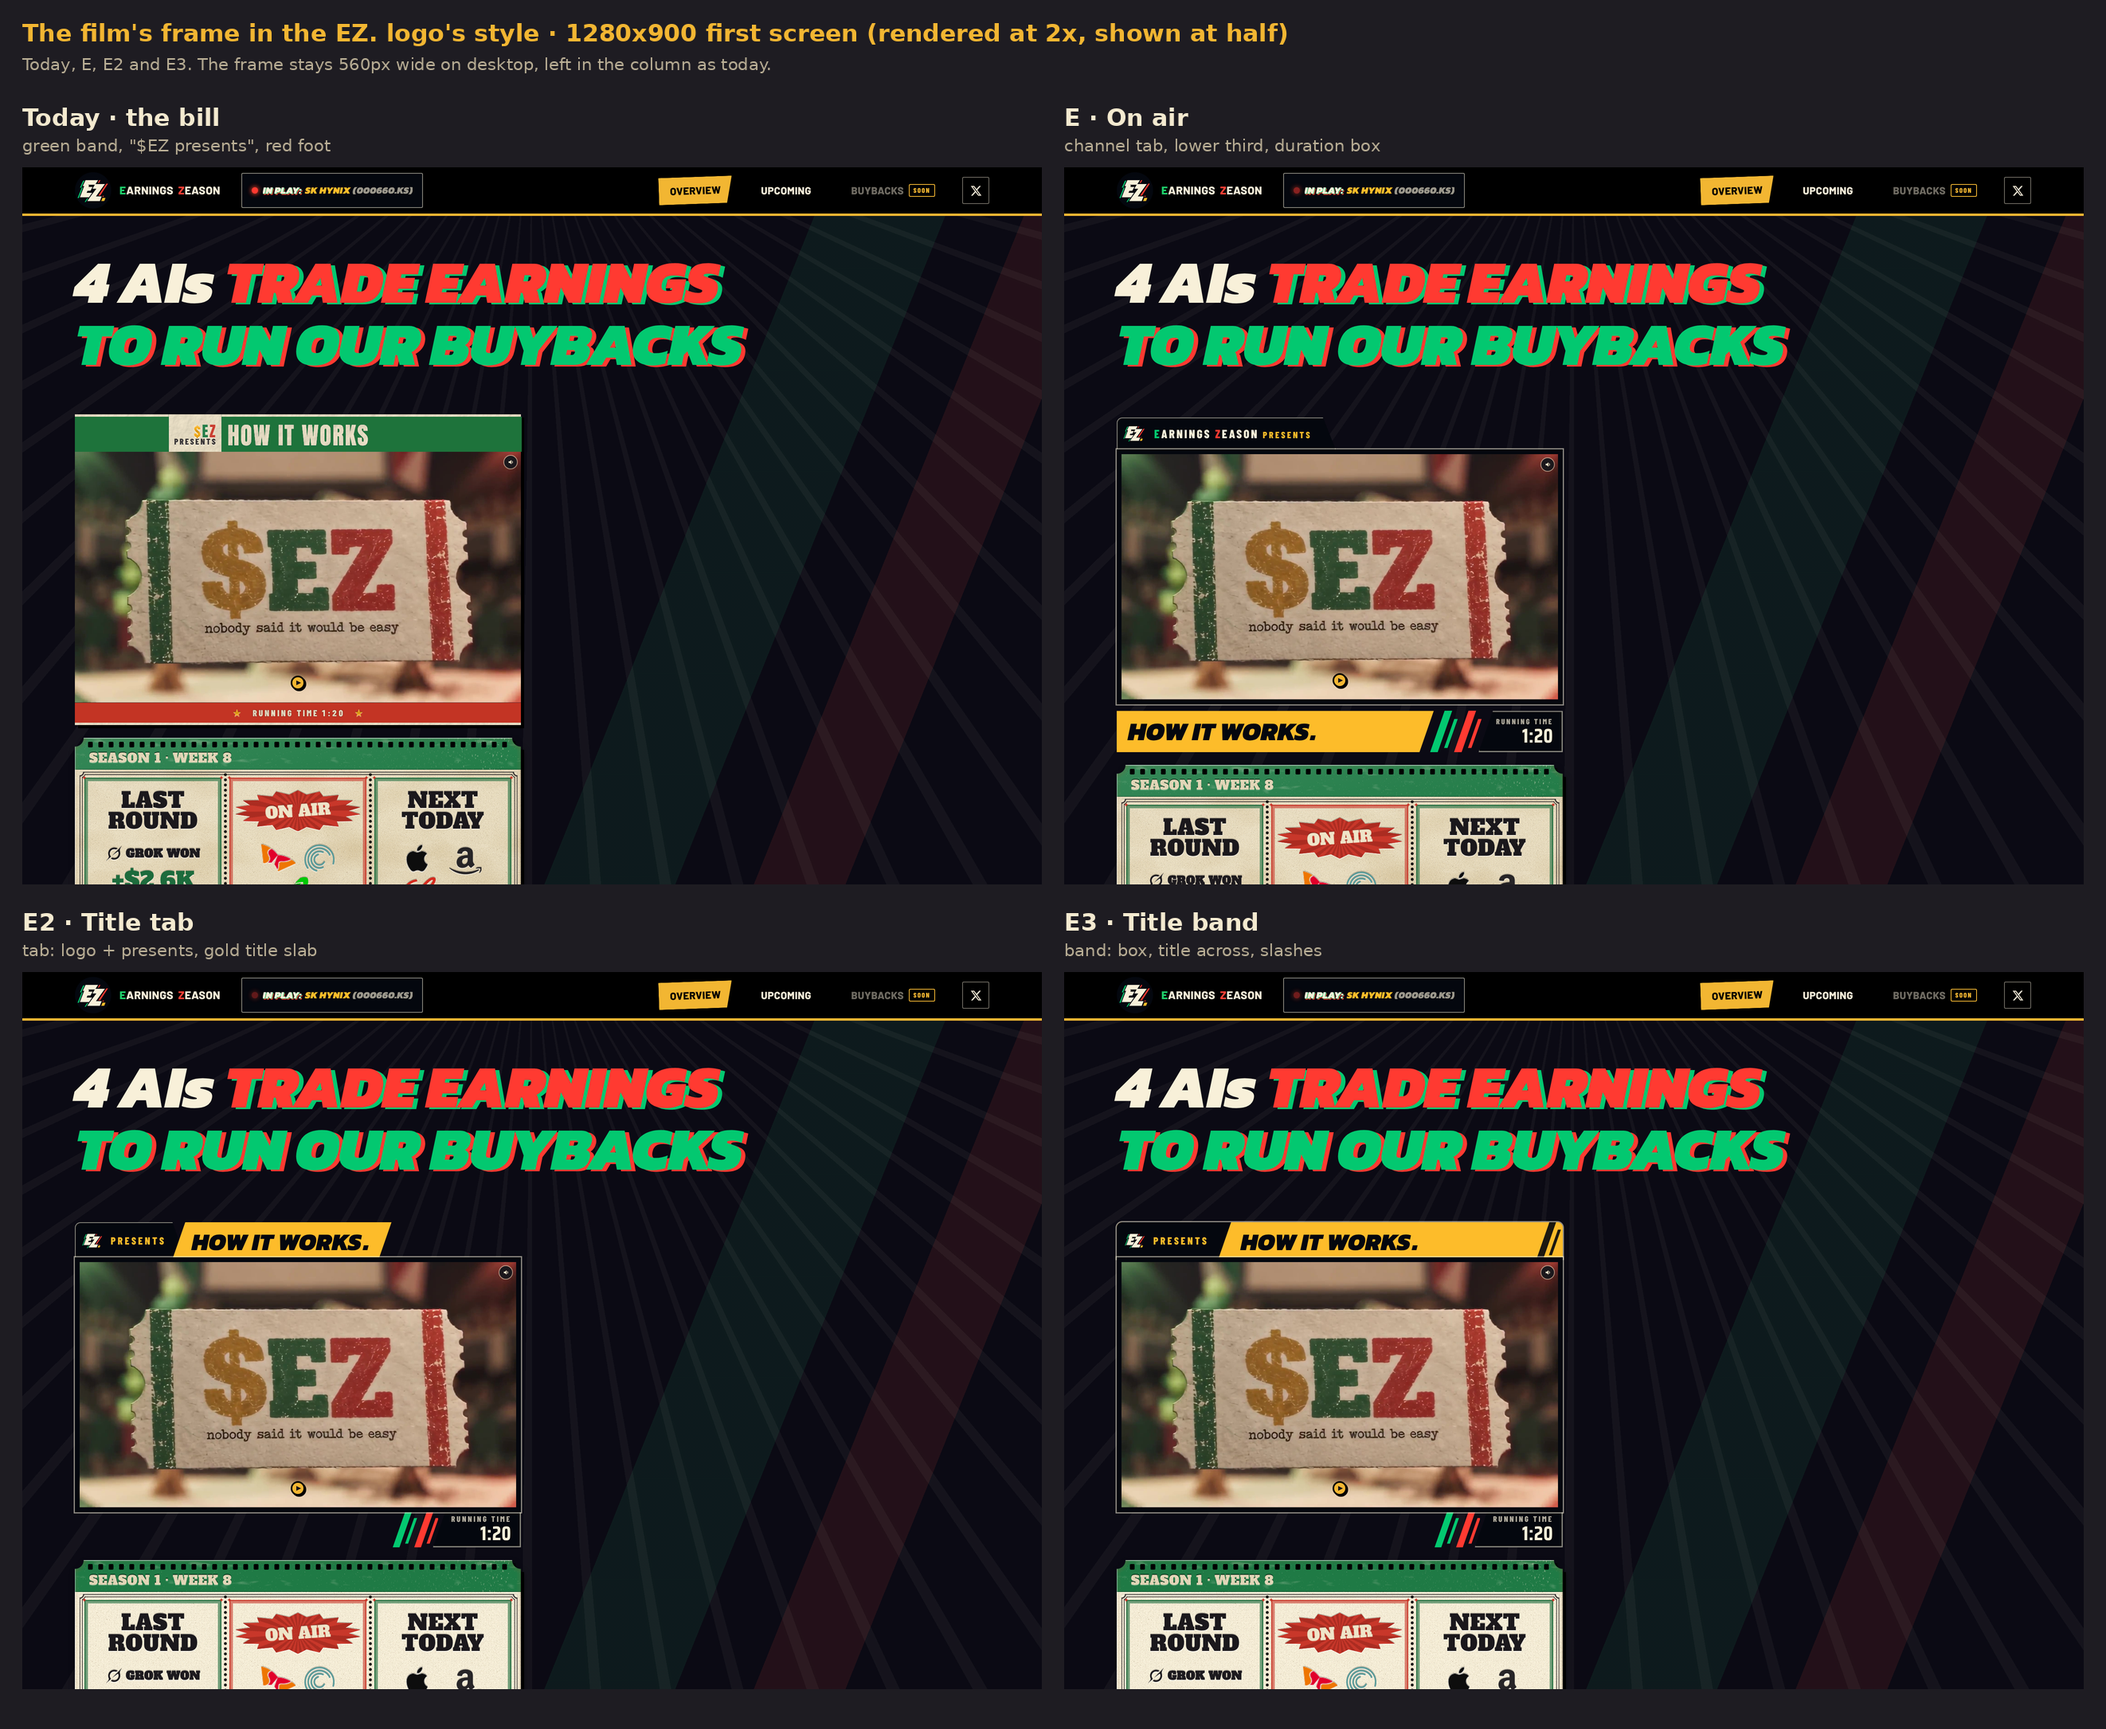
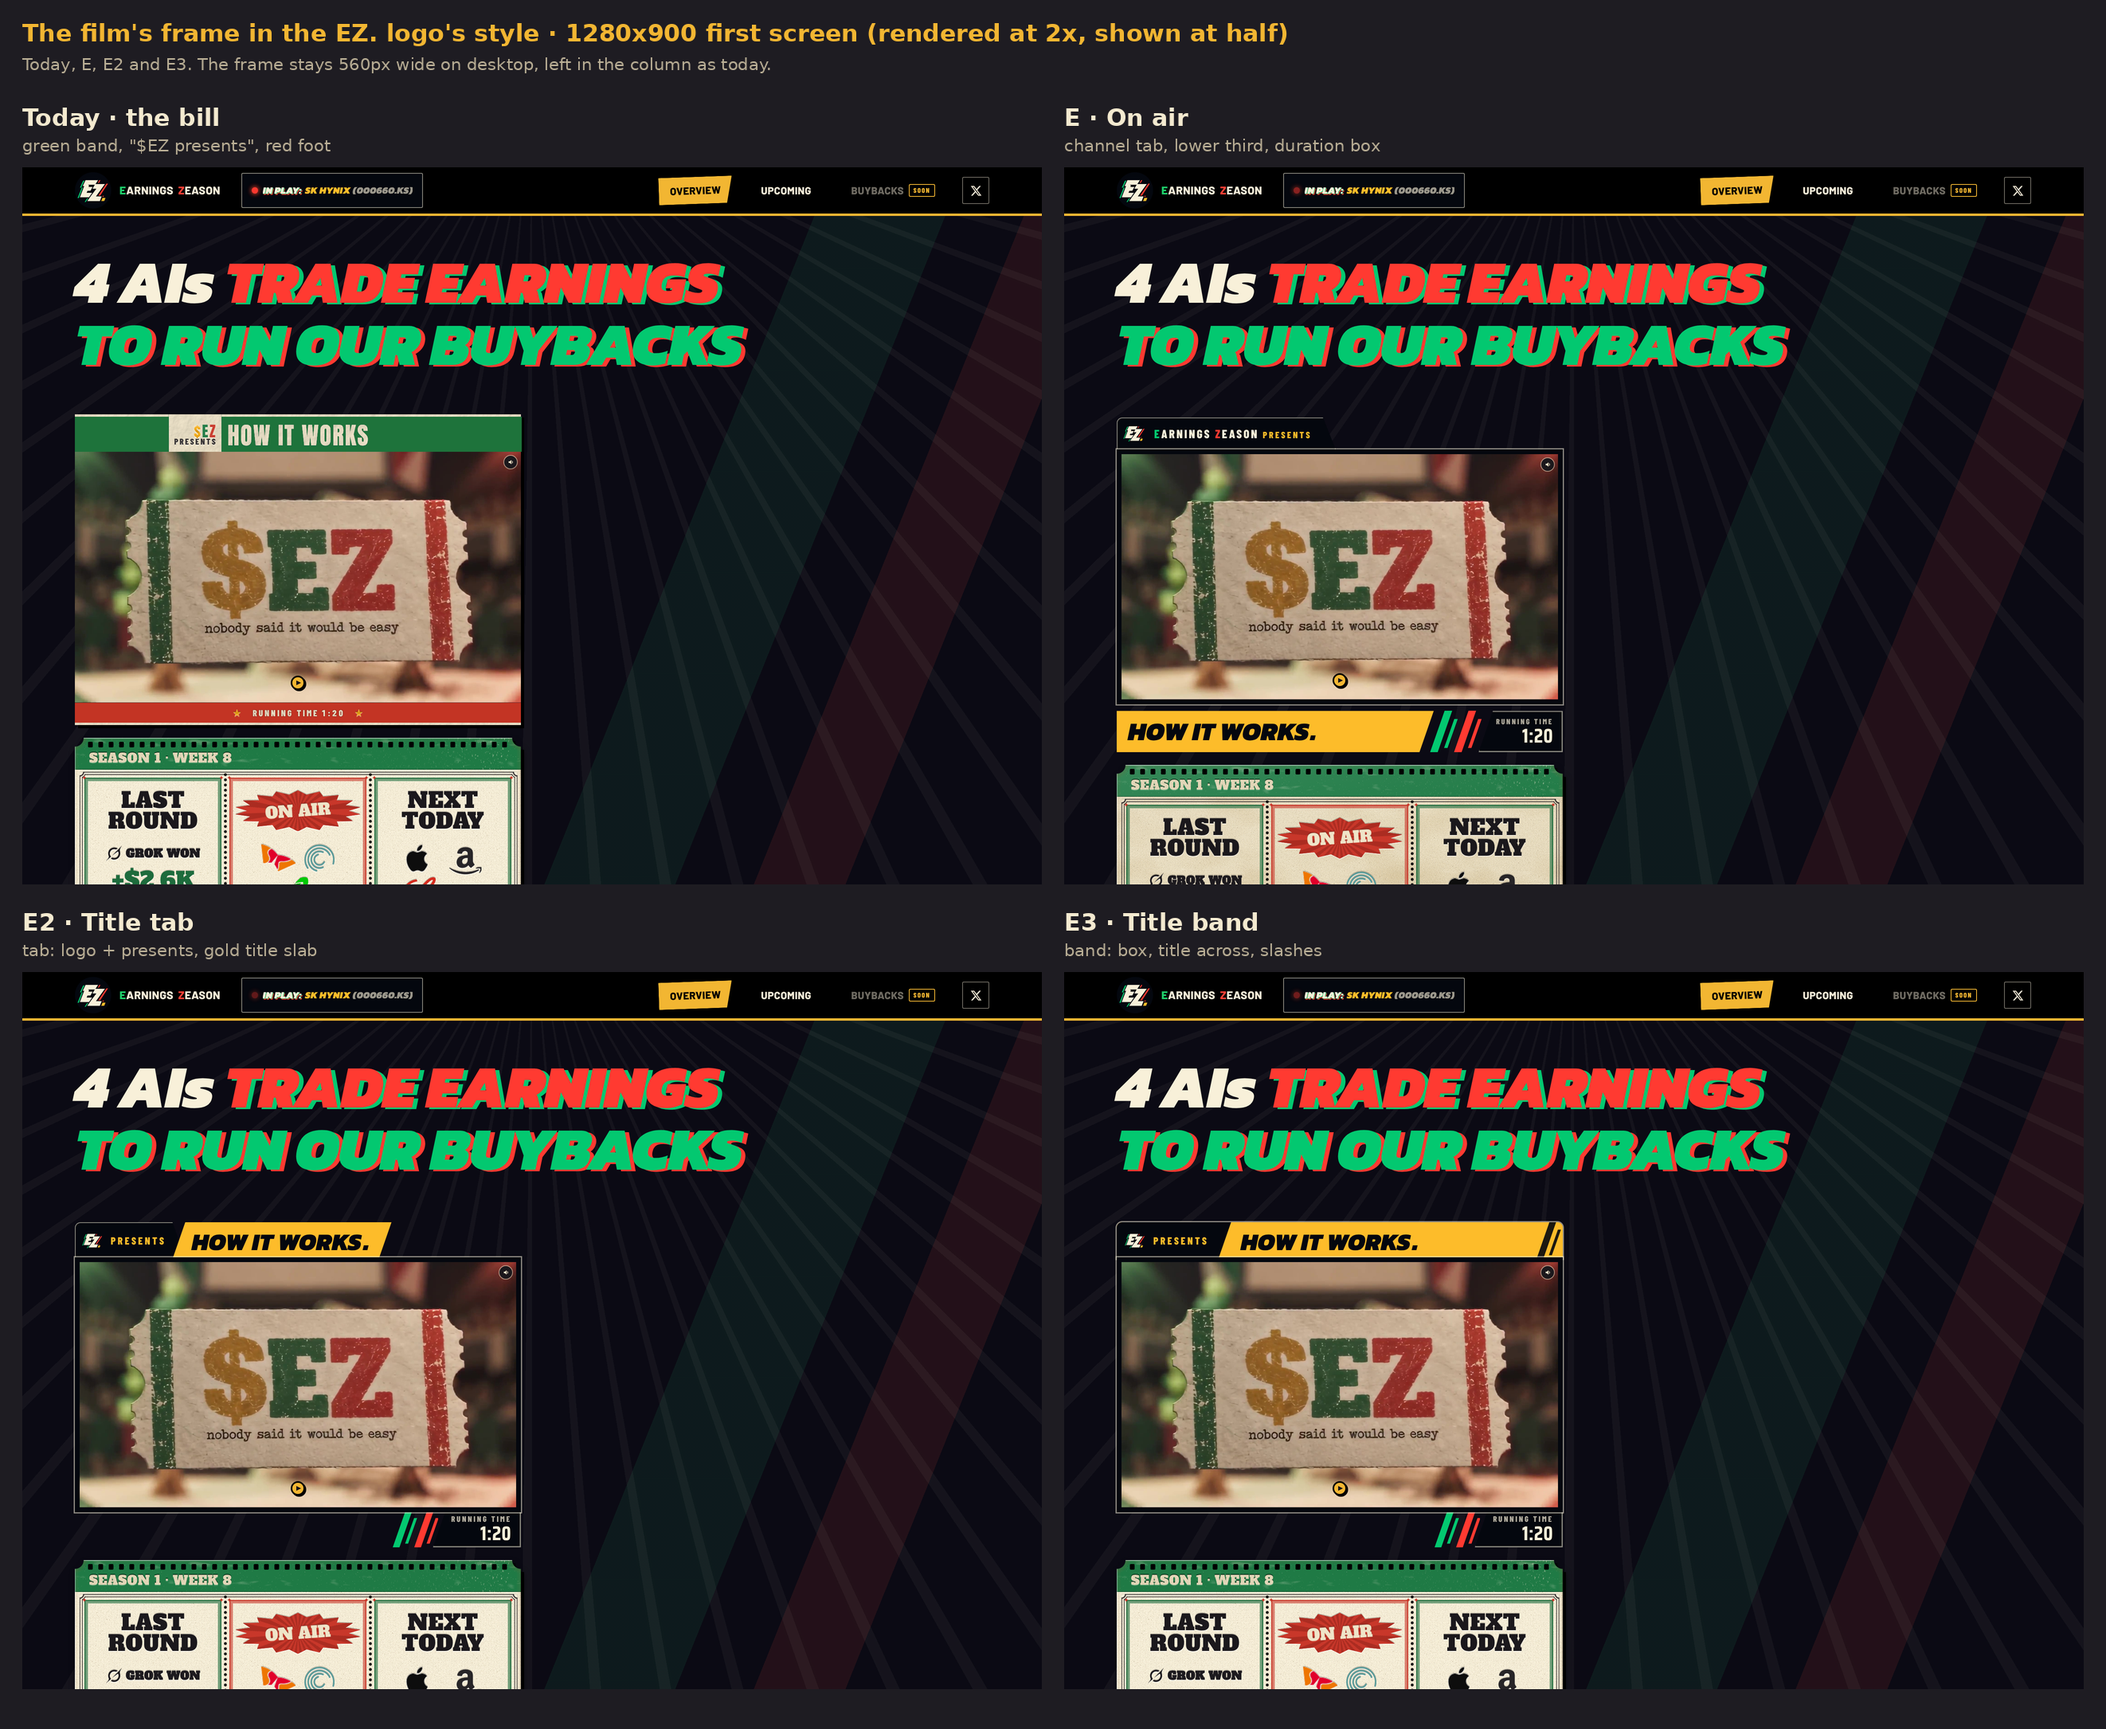
Frame round 3 mockups: E4 gold on today's geometry, E5 today restyled
Claude-Session: https://claude.ai/code/session_01KWvAje4hnkBCpPe6R47PoY

Changed region(s): [[0.031, 0.4323, 0.2481, 0.5249]]

diff --git a/ez/tools/concepts/r1045-frame/_today.css b/ez/tools/concepts/r1045-frame/_today.css
@@ -1,7 +1,7 @@
 /* E4/E5 shared: the presents box and the title, restyled in place (no change to any box's size or position) */
 §:is(.f45-E4,.f45-E5) h2.vt-tag .vb-k{width:1.73em;align-items:center!important;justify-content:space-between!important;color:var(--y)!important;text-shadow:none!important}
-§:is(.f45-E4,.f45-E5) h2.vt-tag .vb-k::before{background:var(--k)!important;filter:none!important;box-shadow:inset 0 0 0 1px rgba(248,240,217,.22)}
-§:is(.f45-E4,.f45-E5) h2.vt-tag .vb-k b.f45-kd{display:block;height:.5em;width:.5em;margin:0!important;font:inherit!important}
+§:is(.f45-E4,.f45-E5) h2.vt-tag .vb-k::before{background:var(--k)!important;filter:none!important;top:calc(3px - .4287em)!important}
+§:is(.f45-E4,.f45-E5) h2.vt-tag .vb-k b.f45-kd{display:block;height:.7em;width:.7em;margin:-.26em 0 0!important;font:inherit!important;border-radius:50%;box-shadow:0 0 0 1px rgba(248,240,217,.45)}
 §:is(.f45-E4,.f45-E5) h2.vt-tag .vb-k b.f45-kd svg{width:100%;height:100%}
 §:is(.f45-E4,.f45-E5) h2.vt-tag .vb-k b.f45-kp{display:block;font:800 .35em/1 'Barlow Condensed',Barlow,sans-serif!important;letter-spacing:.17em;margin:-.19em -.17em -.1em 0!important;color:var(--y)}
 §.f45-kn:is(.f45-E4,.f45-E5) h2.vt-tag .vb-hd{font-family:Kanit,sans-serif!important;font-style:italic!important;font-weight:900!important;letter-spacing:-.005em!important;

diff --git a/ez/tools/concepts/r1045-frame/E4.css b/ez/tools/concepts/r1045-frame/E4.css
@@ -1,11 +1,11 @@
 /* the sheet: the logo's black, E's cream keyline round it */
 §.f45-E4 .vb-bl .pa{background:var(--k)!important}
-§.f45-E4 .vb-bl{box-shadow:0 0 0 1.5px rgba(248,240,217,.55)}
+§.f45-E4 .vb-bl .pa{box-shadow:inset 0 0 0 1.5px rgba(248,240,217,.55)}
 §.f45-E4 h2.vt-tag::before{background:var(--y)!important}
 §.f45-E4 h2.vt-tag .f45-bs{position:absolute;right:6px;top:3px;bottom:0;display:flex}
 §.f45-E4 h2.vt-tag .f45-bs svg{height:100%;width:auto}
 /* the foot: black band in a cream keyline, cream words, today's gold stars, green slashes at its start and red at its end */
-§.f45-E4 .vb-ft::before{background:var(--k)!important;box-shadow:inset 0 0 0 1px rgba(248,240,217,.45)}
+§.f45-E4 .vb-ft::before{background:var(--k)!important}
 §.f45-E4 .vb-ft .t,§.f45-E4 .vb-ft .t .tl,§.f45-E4 .vb-ft .t .vt-s{background:none!important;color:var(--c)!important;-webkit-text-fill-color:var(--c)!important;filter:none!important;text-shadow:none!important}
 §.f45-E4 .vb-ft :is(.f45-fl,.f45-fr){position:absolute;top:0;bottom:3px;display:flex}
 §.f45-E4 .vb-ft .f45-fl{left:5px}§.f45-E4 .vb-ft .f45-fr{right:5px}

diff --git a/ez/tools/concepts/r1045-frame/_board.py b/ez/tools/concepts/r1045-frame/_board.py
@@ -5,7 +5,7 @@ B=ImageFont.truetype('/usr/share/fonts/truetype/dejavu/DejaVuSans-Bold.ttf',30);
 N=[('now','Today · the bill','green band, "$EZ presents", red foot'),('A','A · Medallion plate','the black disc as a seal on the corner'),('B','B · Leaning slabs','the logo inside out, at its lean'),
    ('C','C · Extruded','the headline\'s 3D edge on the picture'),('D','D · The cut','green and red split on the logo\'s diagonal'),('E','E · On air','channel tab, lower third, duration box')]
 import sys
-if len(sys.argv)>1 and sys.argv[1]=='2':
+if len(sys.argv)>1 and sys.argv[1] in('2','3'):
     N=[N[0],N[5],('E2','E2 · Title tab','tab: logo + presents, gold title slab'),('E3','E3 · Title band','band: box, title across, slashes')]
 def board(w,scale,cols,out,title,sub):
     ims=[Image.open(f'{S}{k}-{w}.png') for k,_,_ in N];ims=[i.resize((int(i.width*scale),int(i.height*scale)),Image.LANCZOS) for i in ims]
@@ -14,10 +14,14 @@ def board(w,scale,cols,out,title,sub):
     for j,(c,(k,a,b)) in enumerate(zip(ims,N)):
         x=pad+(j%cols)*(cw+pad);y=130+(j//cols)*(ch+110);d.text((x,y),a,font=B,fill='#f4ead0');d.text((x,y+40),b,font=R,fill='#b8ad94');im.paste(c,(x,y+80))
     im.save(out,optimize=True);print(out,im.size)
-R2=len(sys.argv)>1 and sys.argv[1]=='2'
-X='-2' if R2 else ''
-SUB2='Round 2 (E picked): the EZ. logo, "presents" and "How it works" up top as on the live bill; the duration box hangs below the picture. Nothing over the picture.'
+R3=len(sys.argv)>1 and sys.argv[1]=='3'
+if R3:
+    N=[N[0],N[3],('E4','E4 · Gold on today','today\'s boxes, E3\'s gold band, black foot'),('E5','E5 · Today restyled','today\'s green and red, E\'s box and type')]
+    SUB2='Round 3: today\'s geometry to the pixel (band heights, the presents box, the title\'s place and width); EZ. logo + "presents" in the box, running time back in the foot band.'
+R2=len(sys.argv)>1 and sys.argv[1] in('2','3')
+X='-'+sys.argv[1] if R2 else ''
+if not R3: SUB2='Round 2 (E picked): the EZ. logo, "presents" and "How it works" up top as on the live bill; the duration box hangs below the picture. Nothing over the picture.'
 board(390,.5,len(N),EZ+'x2p-r1045-frame'+X+'.png','The film\'s frame in the EZ. logo\'s style · 390x844 first screen (rendered at 3x, shown at half)',
       SUB2 if R2 else 'The thumbnail is the ticket inside; the Season 1 strip under it is unchanged. Each frame: "Earnings Zeason presents", "How it works", the running time (counts down while playing). Nothing over the picture.')
 board(1280,.5,2 if R2 else 3,EZ+'x2p-r1045-frame'+X+'-desktop.png','The film\'s frame in the EZ. logo\'s style · 1280x900 first screen (rendered at 2x, shown at half)',
-      ('Today, E, E2 and E3.' if R2 else 'Same five options and today\'s bill.')+' The frame stays 560px wide on desktop, left in the column as today.')
+      (('Today, E3, E4 and E5.' if R3 else 'Today, E, E2 and E3.') if R2 else 'Same five options and today\'s bill.')+' The frame stays 560px wide on desktop, left in the column as today.')
